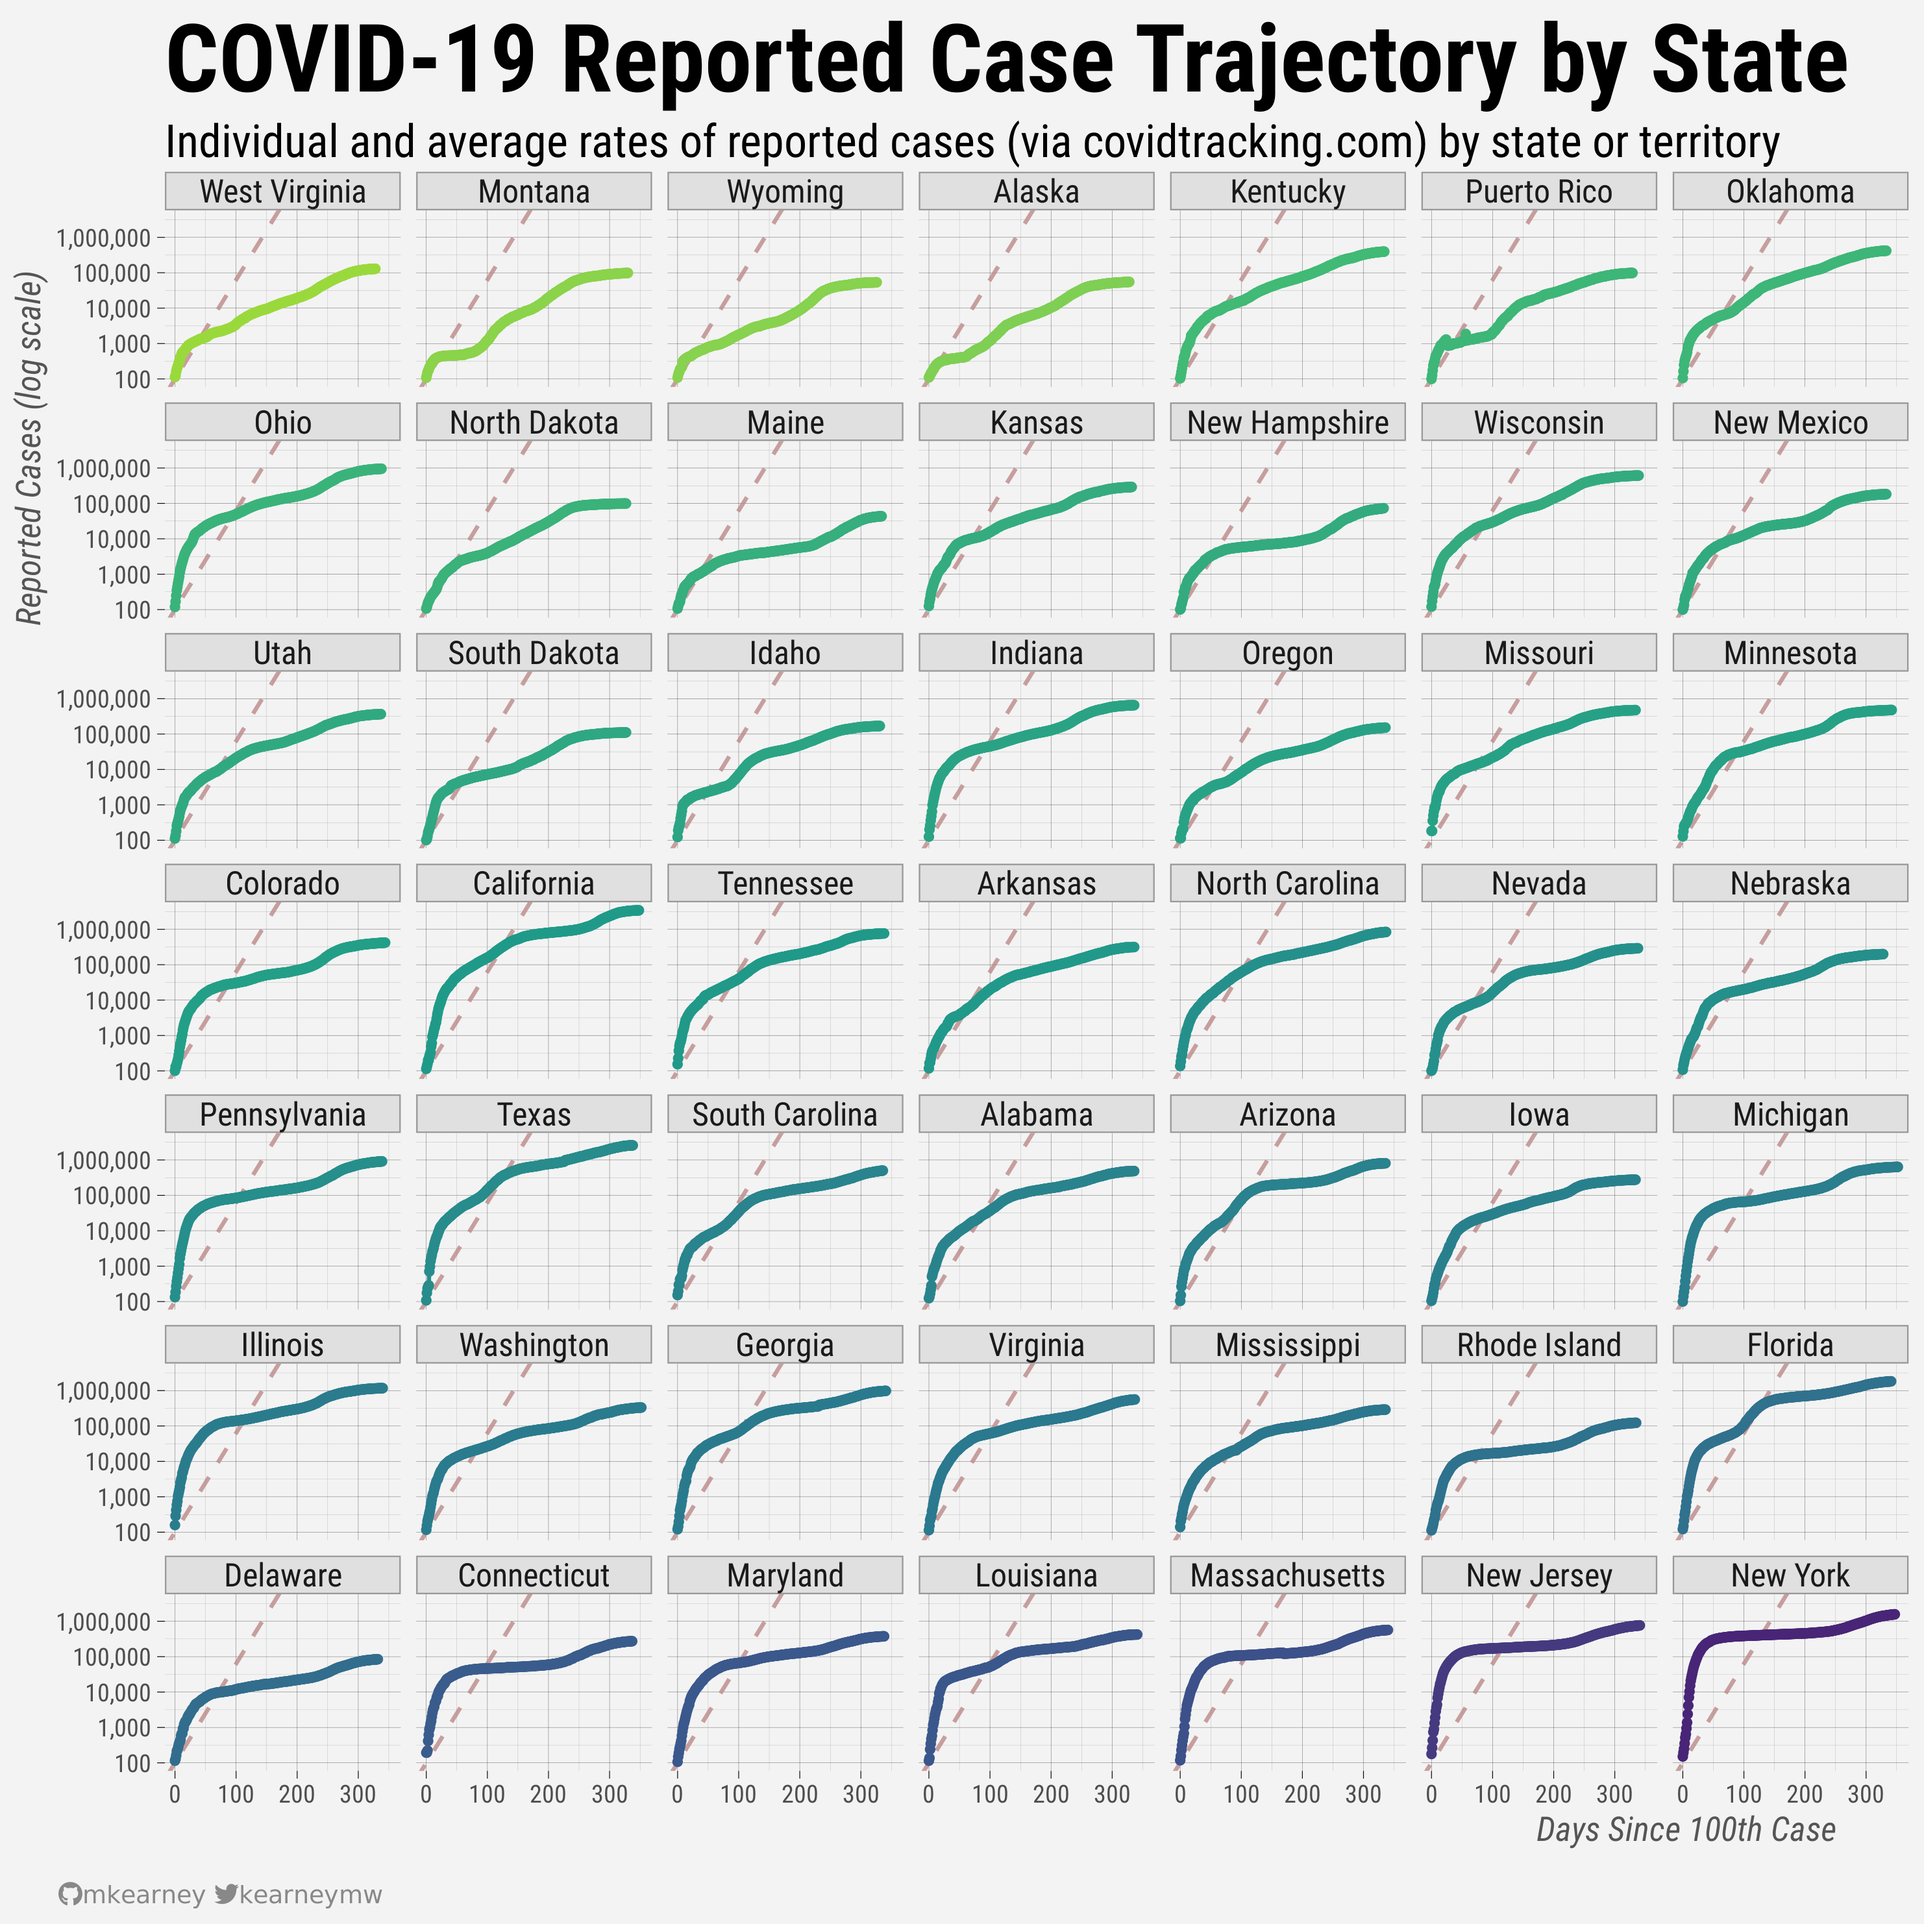
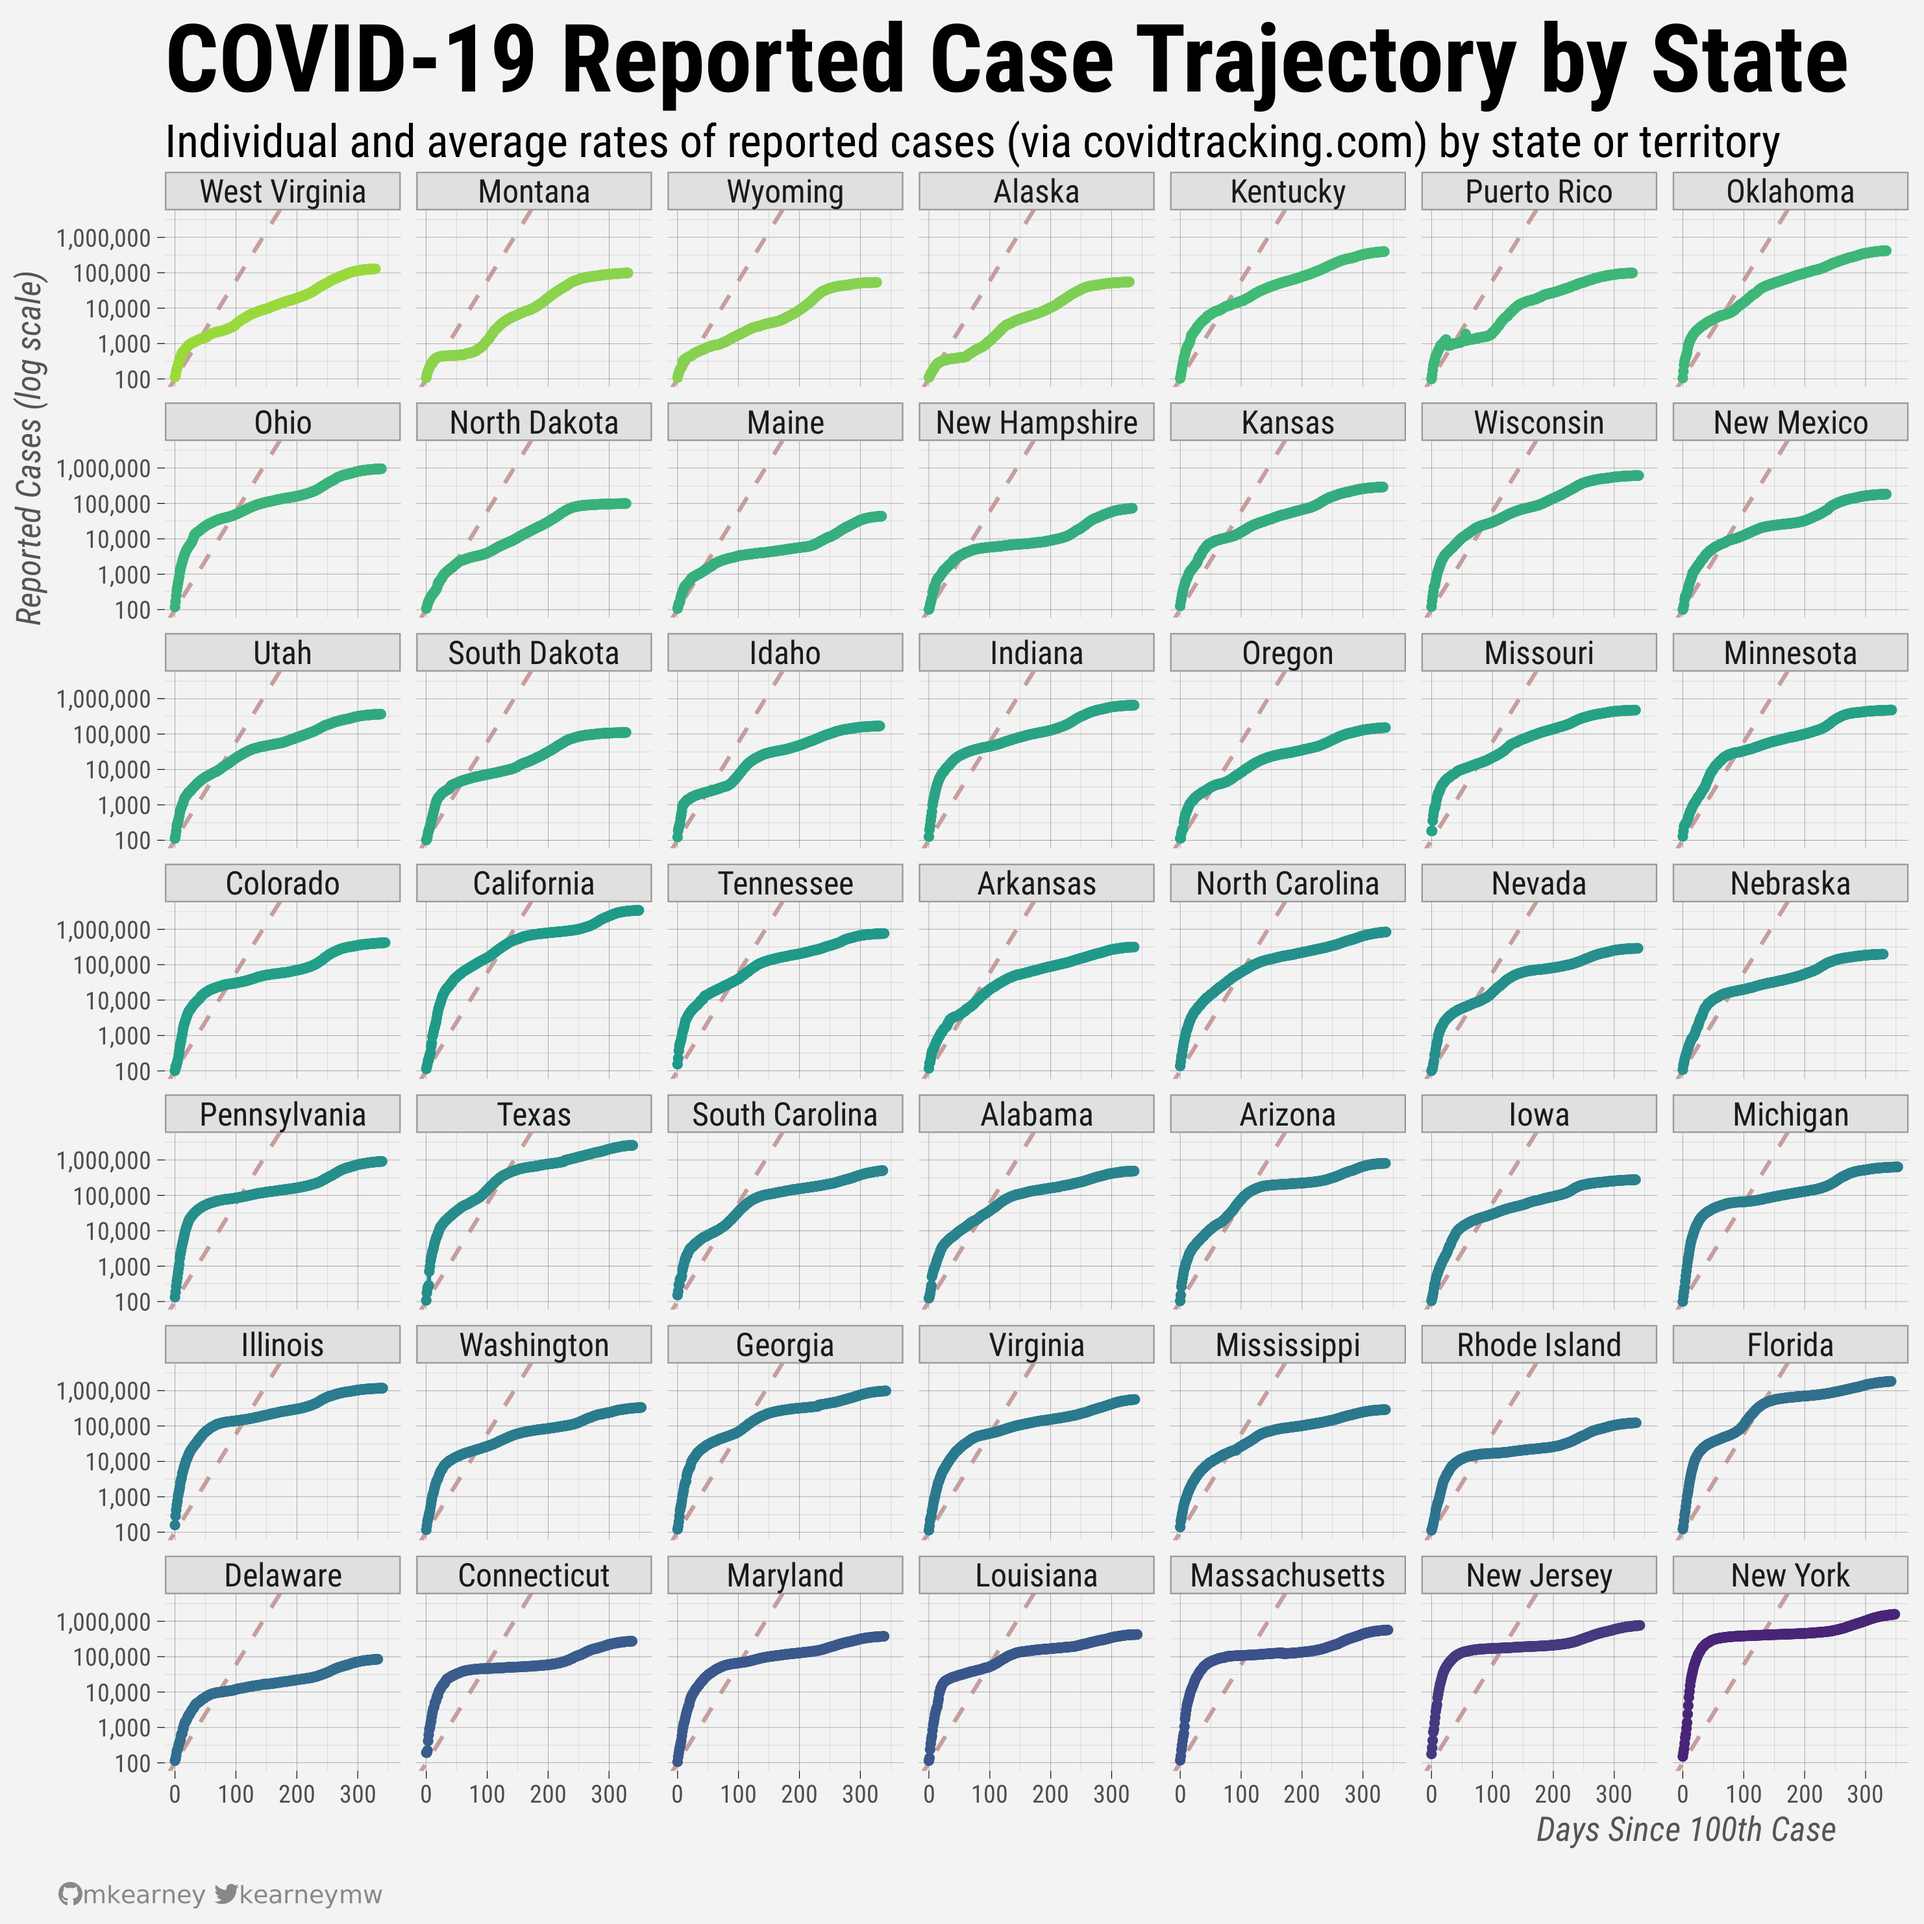
daily cron update

Changed region(s): [[0.6208, 0.2173, 0.7449, 0.3104], [0.4656, 0.2173, 0.5897, 0.3104]]

diff --git a/README.md b/README.md
@@ -40,7 +40,7 @@ grouped by similar endpoints and included below.
     #> # A tibble: 1 x 25
     #>   date       states positive negative pending hospitalized_cu… hospitalized_cu…
     #>   <date>      <int>    <int>    <int>   <int>            <int>            <int>
-    #> 1 2021-02-20     56 27821175   1.25e8    9408            58222           855146
+    #> 1 2021-02-21     56 27879604   1.26e8    9442            56159           856143
     #> # … with 18 more variables: in_icu_currently <int>, in_icu_cumulative <int>,
     #> #   on_ventilator_currently <int>, on_ventilator_cumulative <int>,
     #> #   date_checked <dttm>, death <int>, hospitalized <int>,
@@ -56,20 +56,20 @@ grouped by similar endpoints and included below.
     
     ``` r
     covid19_us_daily()
-    #> # A tibble: 405 x 25
+    #> # A tibble: 406 x 25
     #>    date       states positive negative pending hospitalized_cu… hospitalized_cu…
     #>    <date>      <int>    <int>    <int>   <int>            <int>            <int>
-    #>  1 2021-02-20     56 27821175   1.25e8    9408            58222           855146
-    #>  2 2021-02-19     56 27749224   1.25e8    8711            59882           853414
-    #>  3 2021-02-18     56 27674548   1.25e8    8679            62300           850740
-    #>  4 2021-02-17     56 27607724   1.24e8    8548            63405           848243
-    #>  5 2021-02-16     56 27540885   1.24e8   11547            64533           845386
-    #>  6 2021-02-15     56 27484573   1.24e8   11494            65455           843292
-    #>  7 2021-02-14     56 27429496   1.23e8   11515            67023           842162
-    #>  8 2021-02-13     56 27357332   1.23e8   11529            69283           840926
-    #>  9 2021-02-12     56 27266690   1.22e8    9434            71497           839121
-    #> 10 2021-02-11     56 27165660   1.22e8   11981            74225           836774
-    #> # … with 395 more rows, and 18 more variables: in_icu_currently <int>,
+    #>  1 2021-02-21     56 27879604   1.26e8    9442            56159           856143
+    #>  2 2021-02-20     56 27821175   1.25e8    9408            58222           855146
+    #>  3 2021-02-19     56 27749224   1.25e8    8711            59882           853414
+    #>  4 2021-02-18     56 27674548   1.25e8    8679            62300           850740
+    #>  5 2021-02-17     56 27607724   1.24e8    8548            63405           848243
+    #>  6 2021-02-16     56 27540885   1.24e8   11547            64533           845386
+    #>  7 2021-02-15     56 27484573   1.24e8   11494            65455           843292
+    #>  8 2021-02-14     56 27429496   1.23e8   11515            67023           842162
+    #>  9 2021-02-13     56 27357332   1.23e8   11529            69283           840926
+    #> 10 2021-02-12     56 27266690   1.22e8    9434            71497           839121
+    #> # … with 396 more rows, and 18 more variables: in_icu_currently <int>,
     #> #   in_icu_cumulative <int>, on_ventilator_currently <int>,
     #> #   on_ventilator_cumulative <int>, date_checked <dttm>, death <int>,
     #> #   hospitalized <int>, total_test_results <int>, last_modified <dttm>,
@@ -89,16 +89,16 @@ grouped by similar endpoints and included below.
     #> # A tibble: 56 x 55
     #>    date       state positive probable_cases negative pending total_test_resu…
     #>    <date>     <chr>    <int>          <int>    <int>   <int> <chr>           
-    #>  1 2021-02-20 AK       55198             NA       NA      NA totalTestsViral 
-    #>  2 2021-02-20 AL      485986         104820  1872725      NA totalTestsPeopl…
-    #>  3 2021-02-20 AR      315230          65738  2350951      NA totalTestsViral 
-    #>  4 2021-02-20 AS           0             NA     2140      NA totalTestsViral 
-    #>  5 2021-02-20 AZ      806163          54212  2931160      NA totalTestsViral 
-    #>  6 2021-02-20 CA     3435186             NA       NA      NA totalTestsViral 
-    #>  7 2021-02-20 CO      419812          22543  2130803      NA totalTestEncoun…
-    #>  8 2021-02-20 CT      273101          16962  6167204      NA posNeg          
-    #>  9 2021-02-20 DC       39553             NA       NA      NA totalTestEncoun…
-    #> 10 2021-02-20 DE       84531           4414   530918      NA totalTestEncoun…
+    #>  1 2021-02-21 AK       55198             NA       NA      NA totalTestsViral 
+    #>  2 2021-02-21 AL      486843         104997  1875829      NA totalTestsPeopl…
+    #>  3 2021-02-21 AR      315514          65862  2352972      NA totalTestsViral 
+    #>  4 2021-02-21 AS           0             NA     2140      NA totalTestsViral 
+    #>  5 2021-02-21 AZ      807967          54387  2940237      NA totalTestsViral 
+    #>  6 2021-02-21 CA     3441946             NA       NA      NA totalTestsViral 
+    #>  7 2021-02-21 CO      420614          22594  2135251      NA totalTestEncoun…
+    #>  8 2021-02-21 CT      273101          16962  6167204      NA posNeg          
+    #>  9 2021-02-21 DC       39648             NA       NA      NA totalTestEncoun…
+    #> 10 2021-02-21 DE       84732           4441   531605      NA totalTestEncoun…
     #> # … with 46 more rows, and 48 more variables: total_test_results <int>,
     #> #   hospitalized_currently <int>, hospitalized_cumulative <int>,
     #> #   in_icu_currently <int>, in_icu_cumulative <int>,
@@ -127,20 +127,20 @@ grouped by similar endpoints and included below.
     
     ``` r
     covid19_states_daily()
-    #> # A tibble: 19,933 x 55
+    #> # A tibble: 19,989 x 55
     #>    date       state positive probable_cases negative pending total_test_resu…
     #>    <date>     <chr>    <int>          <int>    <int>   <int> <chr>           
-    #>  1 2021-02-20 AK       55198             NA       NA      NA totalTestsViral 
-    #>  2 2021-02-20 AL      485986         104820  1872725      NA totalTestsPeopl…
-    #>  3 2021-02-20 AR      315230          65738  2350951      NA totalTestsViral 
-    #>  4 2021-02-20 AS           0             NA     2140      NA totalTestsViral 
-    #>  5 2021-02-20 AZ      806163          54212  2931160      NA totalTestsViral 
-    #>  6 2021-02-20 CA     3435186             NA       NA      NA totalTestsViral 
-    #>  7 2021-02-20 CO      419812          22543  2130803      NA totalTestEncoun…
-    #>  8 2021-02-20 CT      273101          16962  6167204      NA posNeg          
-    #>  9 2021-02-20 DC       39553             NA       NA      NA totalTestEncoun…
-    #> 10 2021-02-20 DE       84531           4414   530918      NA totalTestEncoun…
-    #> # … with 19,923 more rows, and 48 more variables: total_test_results <int>,
+    #>  1 2021-02-21 AK       55198             NA       NA      NA totalTestsViral 
+    #>  2 2021-02-21 AL      486843         104997  1875829      NA totalTestsPeopl…
+    #>  3 2021-02-21 AR      315514          65862  2352972      NA totalTestsViral 
+    #>  4 2021-02-21 AS           0             NA     2140      NA totalTestsViral 
+    #>  5 2021-02-21 AZ      807967          54387  2940237      NA totalTestsViral 
+    #>  6 2021-02-21 CA     3441946             NA       NA      NA totalTestsViral 
+    #>  7 2021-02-21 CO      420614          22594  2135251      NA totalTestEncoun…
+    #>  8 2021-02-21 CT      273101          16962  6167204      NA posNeg          
+    #>  9 2021-02-21 DC       39648             NA       NA      NA totalTestEncoun…
+    #> 10 2021-02-21 DE       84732           4441   531605      NA totalTestEncoun…
+    #> # … with 19,979 more rows, and 48 more variables: total_test_results <int>,
     #> #   hospitalized_currently <int>, hospitalized_cumulative <int>,
     #> #   in_icu_currently <int>, in_icu_cumulative <int>,
     #> #   on_ventilator_currently <int>, on_ventilator_cumulative <int>,
